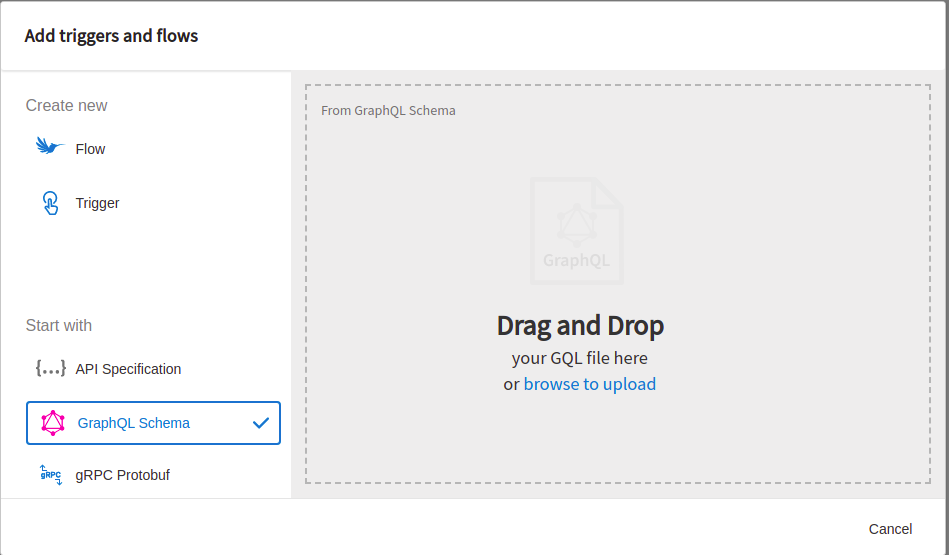
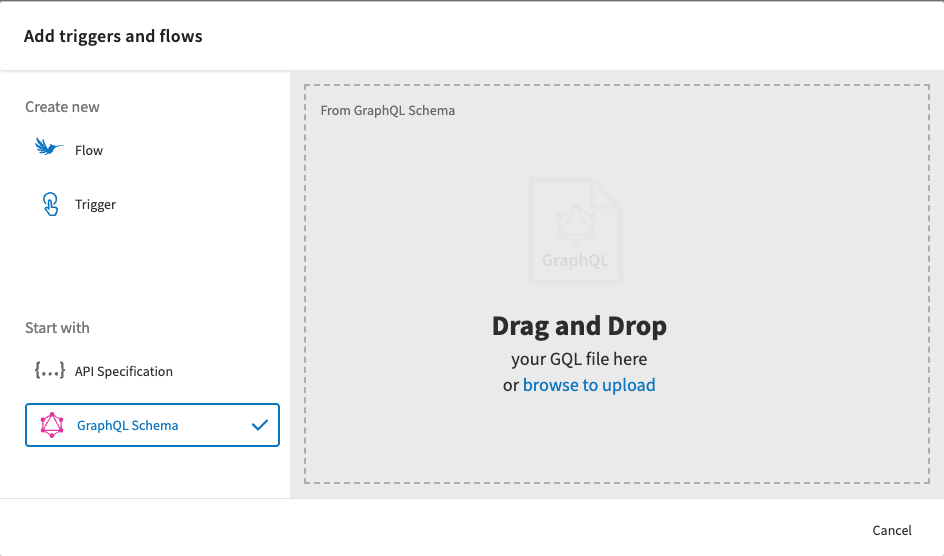
added screenshots on graphql sample

diff --git a/samples/app-dev/API-Development/graphQL/readme.md b/samples/app-dev/API-Development/graphQL/readme.md
@@ -13,7 +13,7 @@ To know more about Graphql, please refer [here](https://graphql.org/)
 
 2. Create a new empty app
 
-![Create a new empty app](../../import-screenshots/graphql-create-app.png)
+![Create a new empty app](../../import-screenshots/2.png)
 
 3. On the app details page, select import app option.
 
